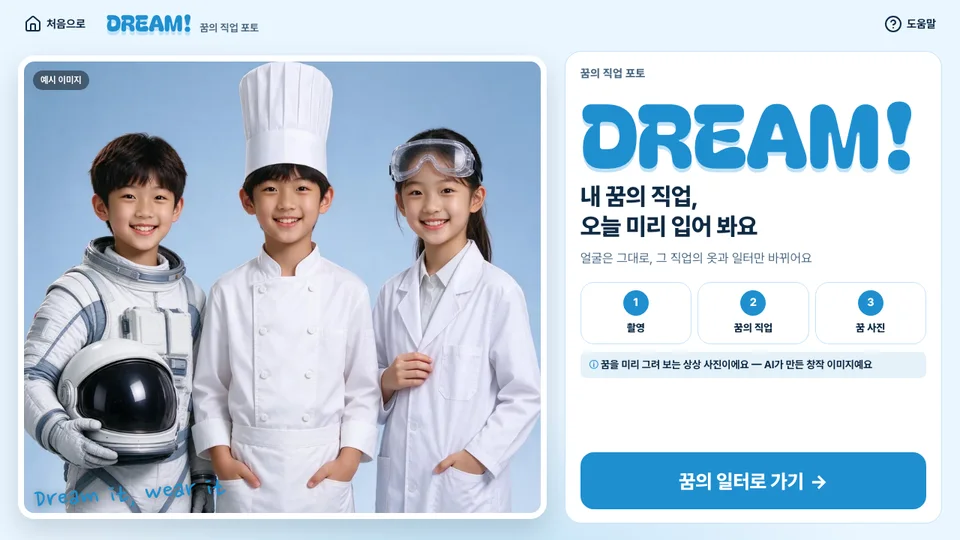
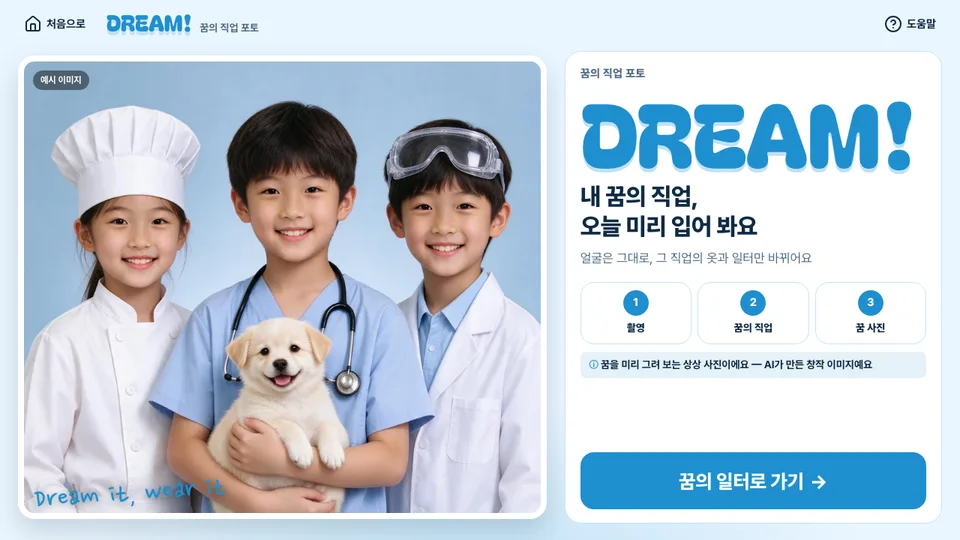
[FIX] 펀그라운드 DREAM! — 우주비행사를 천문학자로(우주복에 국기가 그려짐), 미래 신문 JSON 실패 로그
- Seedream 이 「깃발 · 패치 없음」을 적어도 우주복 어깨에 국기를 그렸다(운영 1번 · 로컬 2번) → 천문학자(별빛 천문대)로 바꾸고 시작 그림도 셰프 · 수의사 · 과학자로
- FUTURE NEWS! A안: JSON 이 아닌 응답은 앞뒤 일부를 로그에(대답은 보기 id 뿐)

Changed region(s): [[0.0, 0.0889, 0.5625, 0.9481], [0.4688, 0.0889, 0.5625, 0.2074]]

diff --git a/src/lib/booth/programs/catalog.ts b/src/lib/booth/programs/catalog.ts
@@ -657,7 +657,7 @@ export const PROGRAMS: ProgramDef[] = [
       title: '어떤 직업을 입어 볼까요?', sub: '꿈의 직업과 장면을 골라 주세요', cta: '이 꿈으로 만들기',
       groups: [
         { id: 'job', label: '꿈의 직업', look: 'tiles', options: [
-          { id: 'astronaut', label: '우주비행사', sub: '우주 정거장', swatch: 'radial-gradient(circle at 70% 30%,#9fd3ff 0 8%,transparent 9%),linear-gradient(170deg,#1b2a6b,#070b24 70%)', prompt: 'as astronauts inside a bright space station with Earth in the round window behind them, wearing plain white space suits with NO flags, NO patches, NO mission badges and NO name tags, the helmet off (held under the arm or floating nearby)' },
+          { id: 'astronomer', label: '천문학자', sub: '별빛 천문대', swatch: 'radial-gradient(circle at 70% 30%,#fff3b0 0 4%,transparent 5%),radial-gradient(circle at 30% 60%,#fff3b0 0 3%,transparent 4%),linear-gradient(170deg,#2a2f7a,#0b0d2a 70%)', prompt: 'as astronomers at a big observatory at night beside a large telescope under the open dome, a sky full of stars and the Milky Way above, wearing plain warm navy jackets, one pointing up at the stars' },
           { id: 'chef', label: '셰프', sub: '레스토랑 주방', swatch: 'linear-gradient(170deg,#ffe9c9,#f2a65a 60%,#b4562a)', prompt: 'as chefs in a warm, busy restaurant kitchen, wearing white double-breasted chef jackets and tall white chef hats, proudly presenting a beautiful plate of food' },
           { id: 'vet', label: '수의사', sub: '동물 병원', swatch: 'linear-gradient(170deg,#d8f3e6,#6cc7a0 60%,#2f8a68)', prompt: 'as veterinarians in a bright, friendly animal clinic, wearing light blue scrubs with a stethoscope, gently holding a happy puppy or a kitten' },
           { id: 'scientist', label: '과학자', sub: '연구실', swatch: 'radial-gradient(circle at 30% 30%,#a6f0ff 0 7%,transparent 8%),linear-gradient(170deg,#e9f4ff,#7fb2e8 60%,#2b5ea8)', prompt: 'as scientists in a modern laboratory with glowing experiment equipment, wearing white lab coats and clear safety goggles pushed up on the head' },
@@ -675,7 +675,7 @@ export const PROGRAMS: ProgramDef[] = [
     save: { title: '꿈의 순간을 가져가세요', sub: '4×6 사진으로 인화해요' },
     creative: '꿈을 미리 그려 보는 상상 사진이에요 — AI가 만든 창작 이미지예요',
     intro: intro('dream'), script: 'Dream it, wear it', designs: ['꿈의 직업 포스터', '꿈의 명함'],
-    card: { tag: 'DREAM!', desc: '우주비행사 · 셰프 · 수의사 · 과학자 · 소방관 · 게임 개발자 — 얼굴은 그대로, 꿈의 직업 옷과 일터로.', color: '#1f8fd0', badges: ['AI 생성', '1~4인', '4×6 인화'] },
+    card: { tag: 'DREAM!', desc: '천문학자 · 셰프 · 수의사 · 과학자 · 소방관 · 게임 개발자 — 얼굴은 그대로, 꿈의 직업 옷과 일터로.', color: '#1f8fd0', badges: ['AI 생성', '1~4인', '4×6 인화'] },
   },
 ]
 

diff --git a/src/lib/funground/demo.ts b/src/lib/funground/demo.ts
@@ -88,7 +88,7 @@ export const FUNGROUND_PROGRAMS: FungroundProgram[] = [
     note: '사진은 기기 안에서 오려 신문에 · AI는 기사 글만(약 $0.002)',
   },
   {
-    key: 'a-dream', plan: 'a', no: 6, tag: 'DREAM!', name: '꿈의 직업 포토', desc: '우주비행사 · 셰프 · 수의사 · 과학자 · 소방관 · 게임 개발자 — 얼굴은 그대로, 꿈의 직업 옷과 일터로 바꿔 4×6 사진으로 줘요.', phase: 2, build: 'new', badges: ['AI 생성', '1~4명', '4×6 인화'], color: '#1f8fd0', screen: shot('a-dream'),
+    key: 'a-dream', plan: 'a', no: 6, tag: 'DREAM!', name: '꿈의 직업 포토', desc: '천문학자 · 셰프 · 수의사 · 과학자 · 소방관 · 게임 개발자 — 얼굴은 그대로, 꿈의 직업 옷과 일터로 바꿔 4×6 사진으로 줘요.', phase: 2, build: 'new', badges: ['AI 생성', '1~4명', '4×6 인화'], color: '#1f8fd0', screen: shot('a-dream'),
     targets: [{ kind: 'booth', id: 'dream' }],
     note: 'Seedream — 옷 · 배경만 바꿔 얼굴이 잘 남는다(1장 $0.018)',
   },

diff --git a/docs/funground-demo.md b/docs/funground-demo.md
@@ -35,7 +35,7 @@
 | A | DREAM! 꿈의 직업 포토 — 6직업 × 2장면, 옷 · 일터만 바꿈(1~4명) | 2 | 새로 | `/booth?mode=dream&site=funground` (Seedream) | $0.018 |
 | B | FUTURE NEWS! — 기사는 미리 쓴 틀(`news-template.ts`) | 2 | 새로 | `/booth-demo/funground/news?engine=local` | $0 |
 
-DREAM! 가상 어린이 시험(5건, 2026-11-14): 얼굴 유사도 0.80~0.95, 1~4명 모두 유지, 나이 그대로. 우주복에 국기 · 패치가 그려져 프롬프트에 「깃발 · 패치 · 이름표 없음」을 더했다.
+DREAM! 가상 어린이 시험(5건, 2026-11-14): 얼굴 유사도 0.80~0.95, 1~4명 모두 유지, 나이 그대로. 우주비행사는 「깃발 · 패치 없음」을 적어도 Seedream 이 우주복에 국기를 그려(3번 시험) 천문학자(천문대)로 바꿨다.
 
 뺀 프로그램(IDOL! · ERA! · GRAD! · WITH! · QUEST! · MVP! · THEME! · MV!)의 코드는 남아 있고 주소로만 열린다. B안 LATER! 는 THEME! 합성 코드를 쓴다.
 
